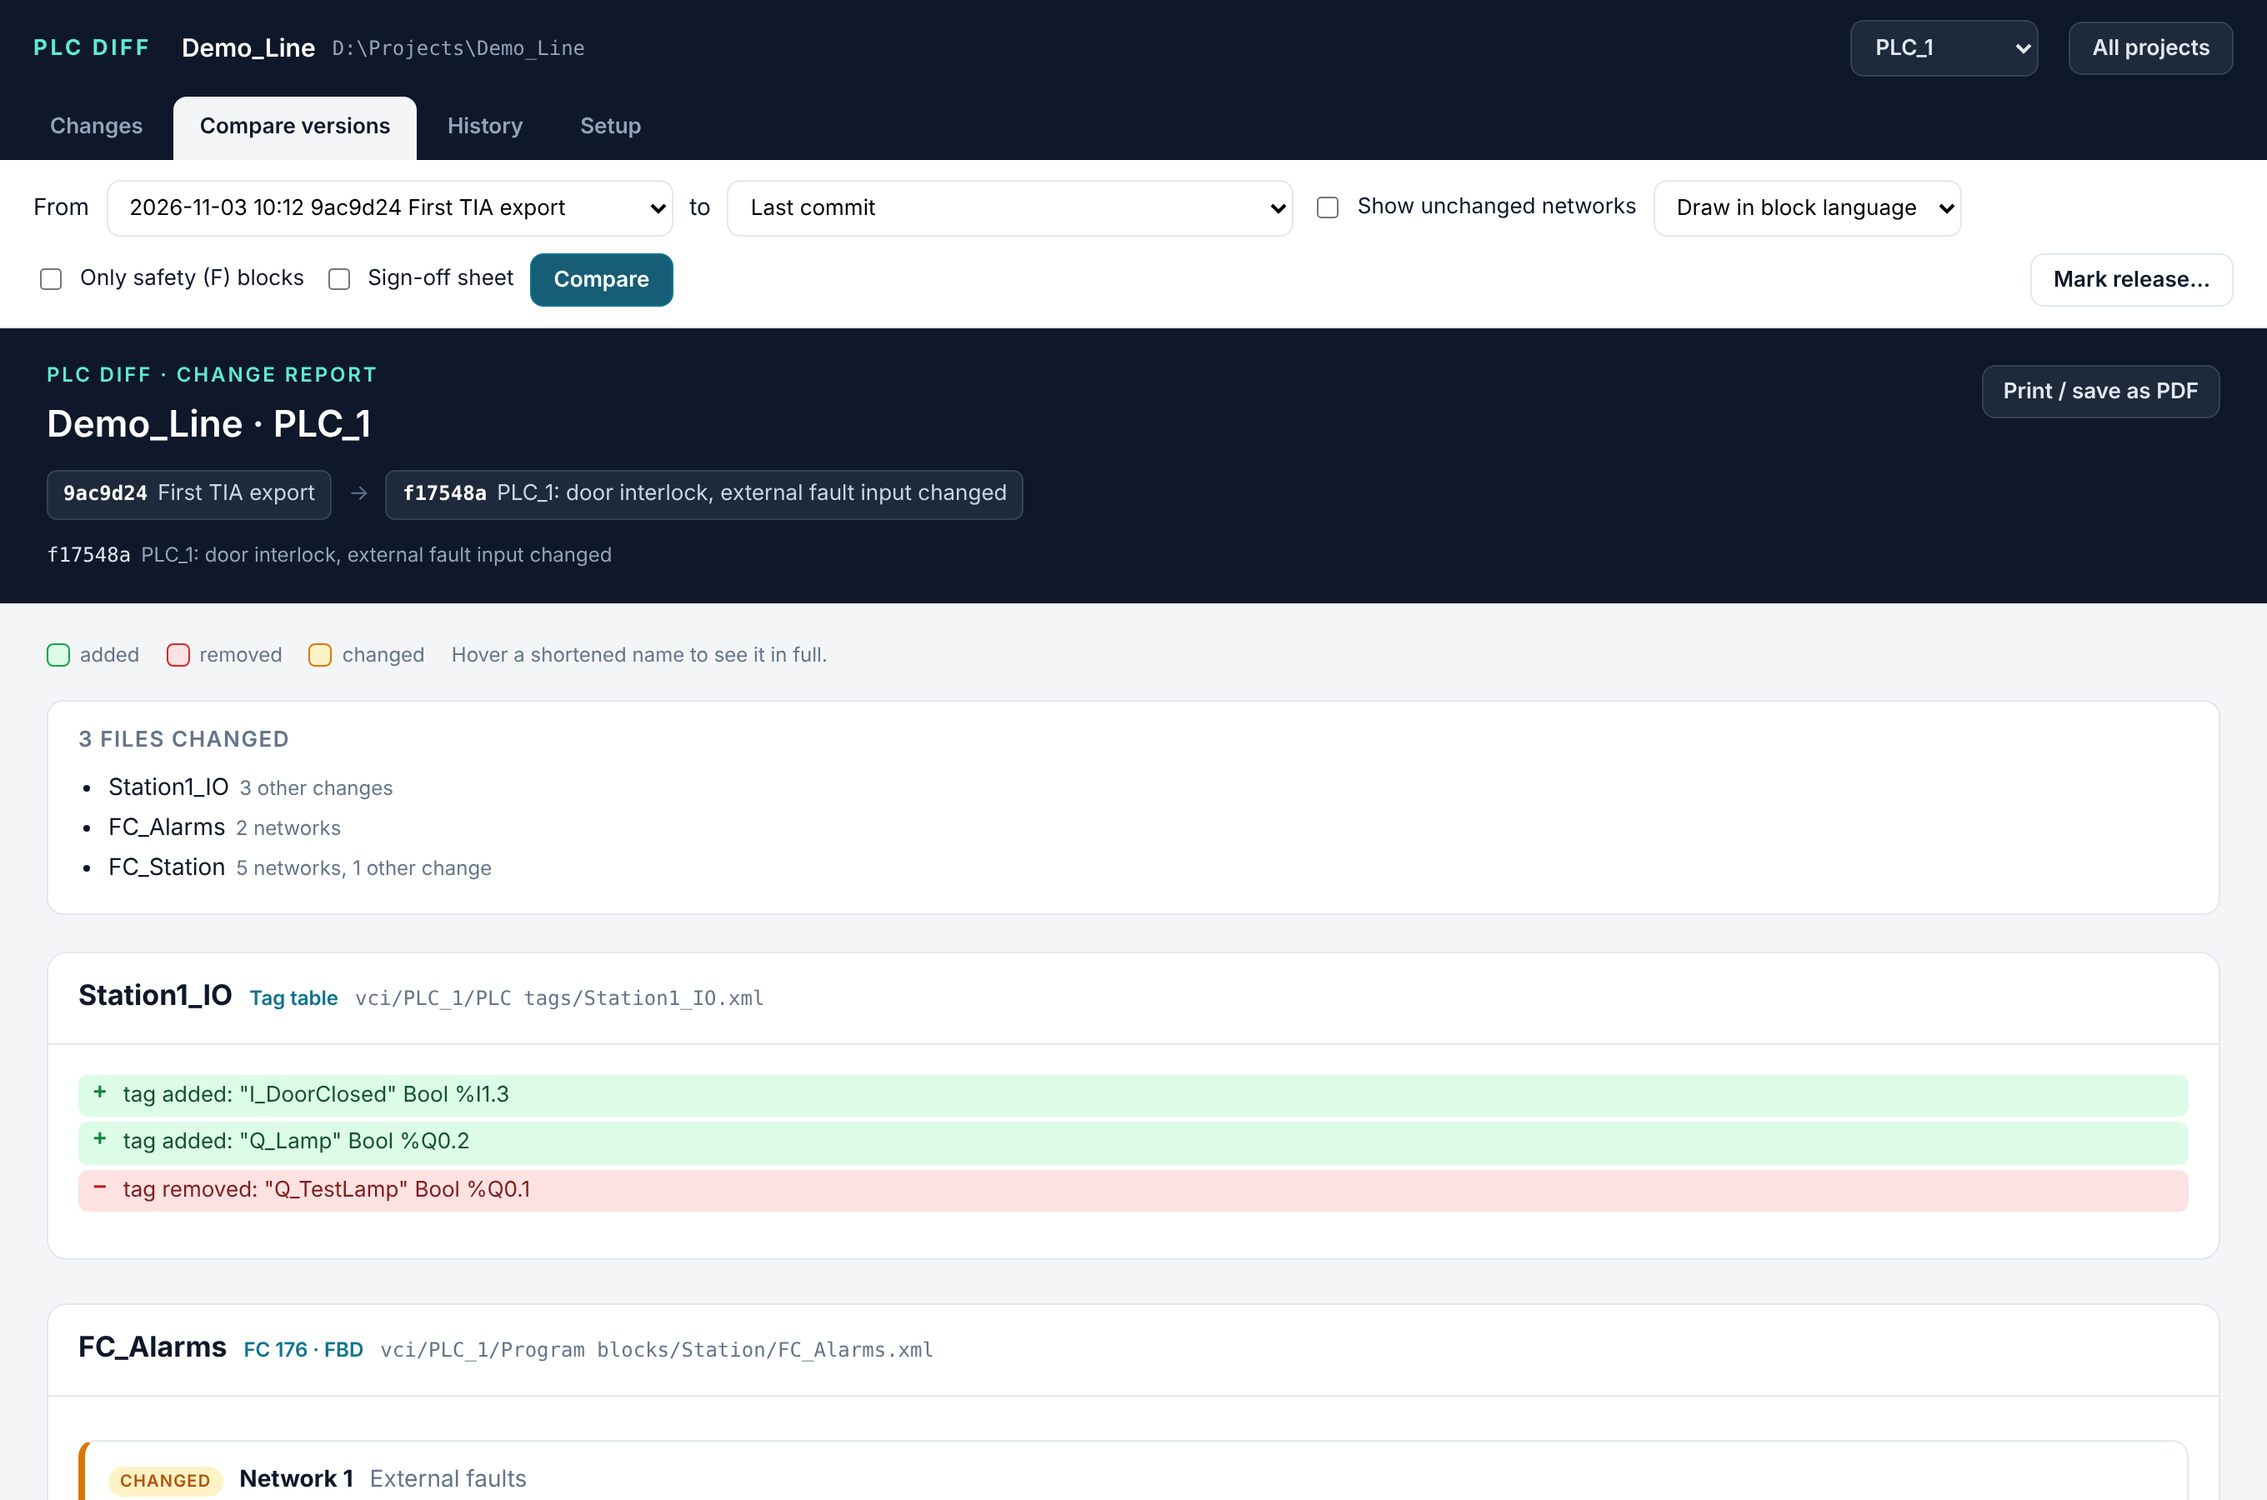
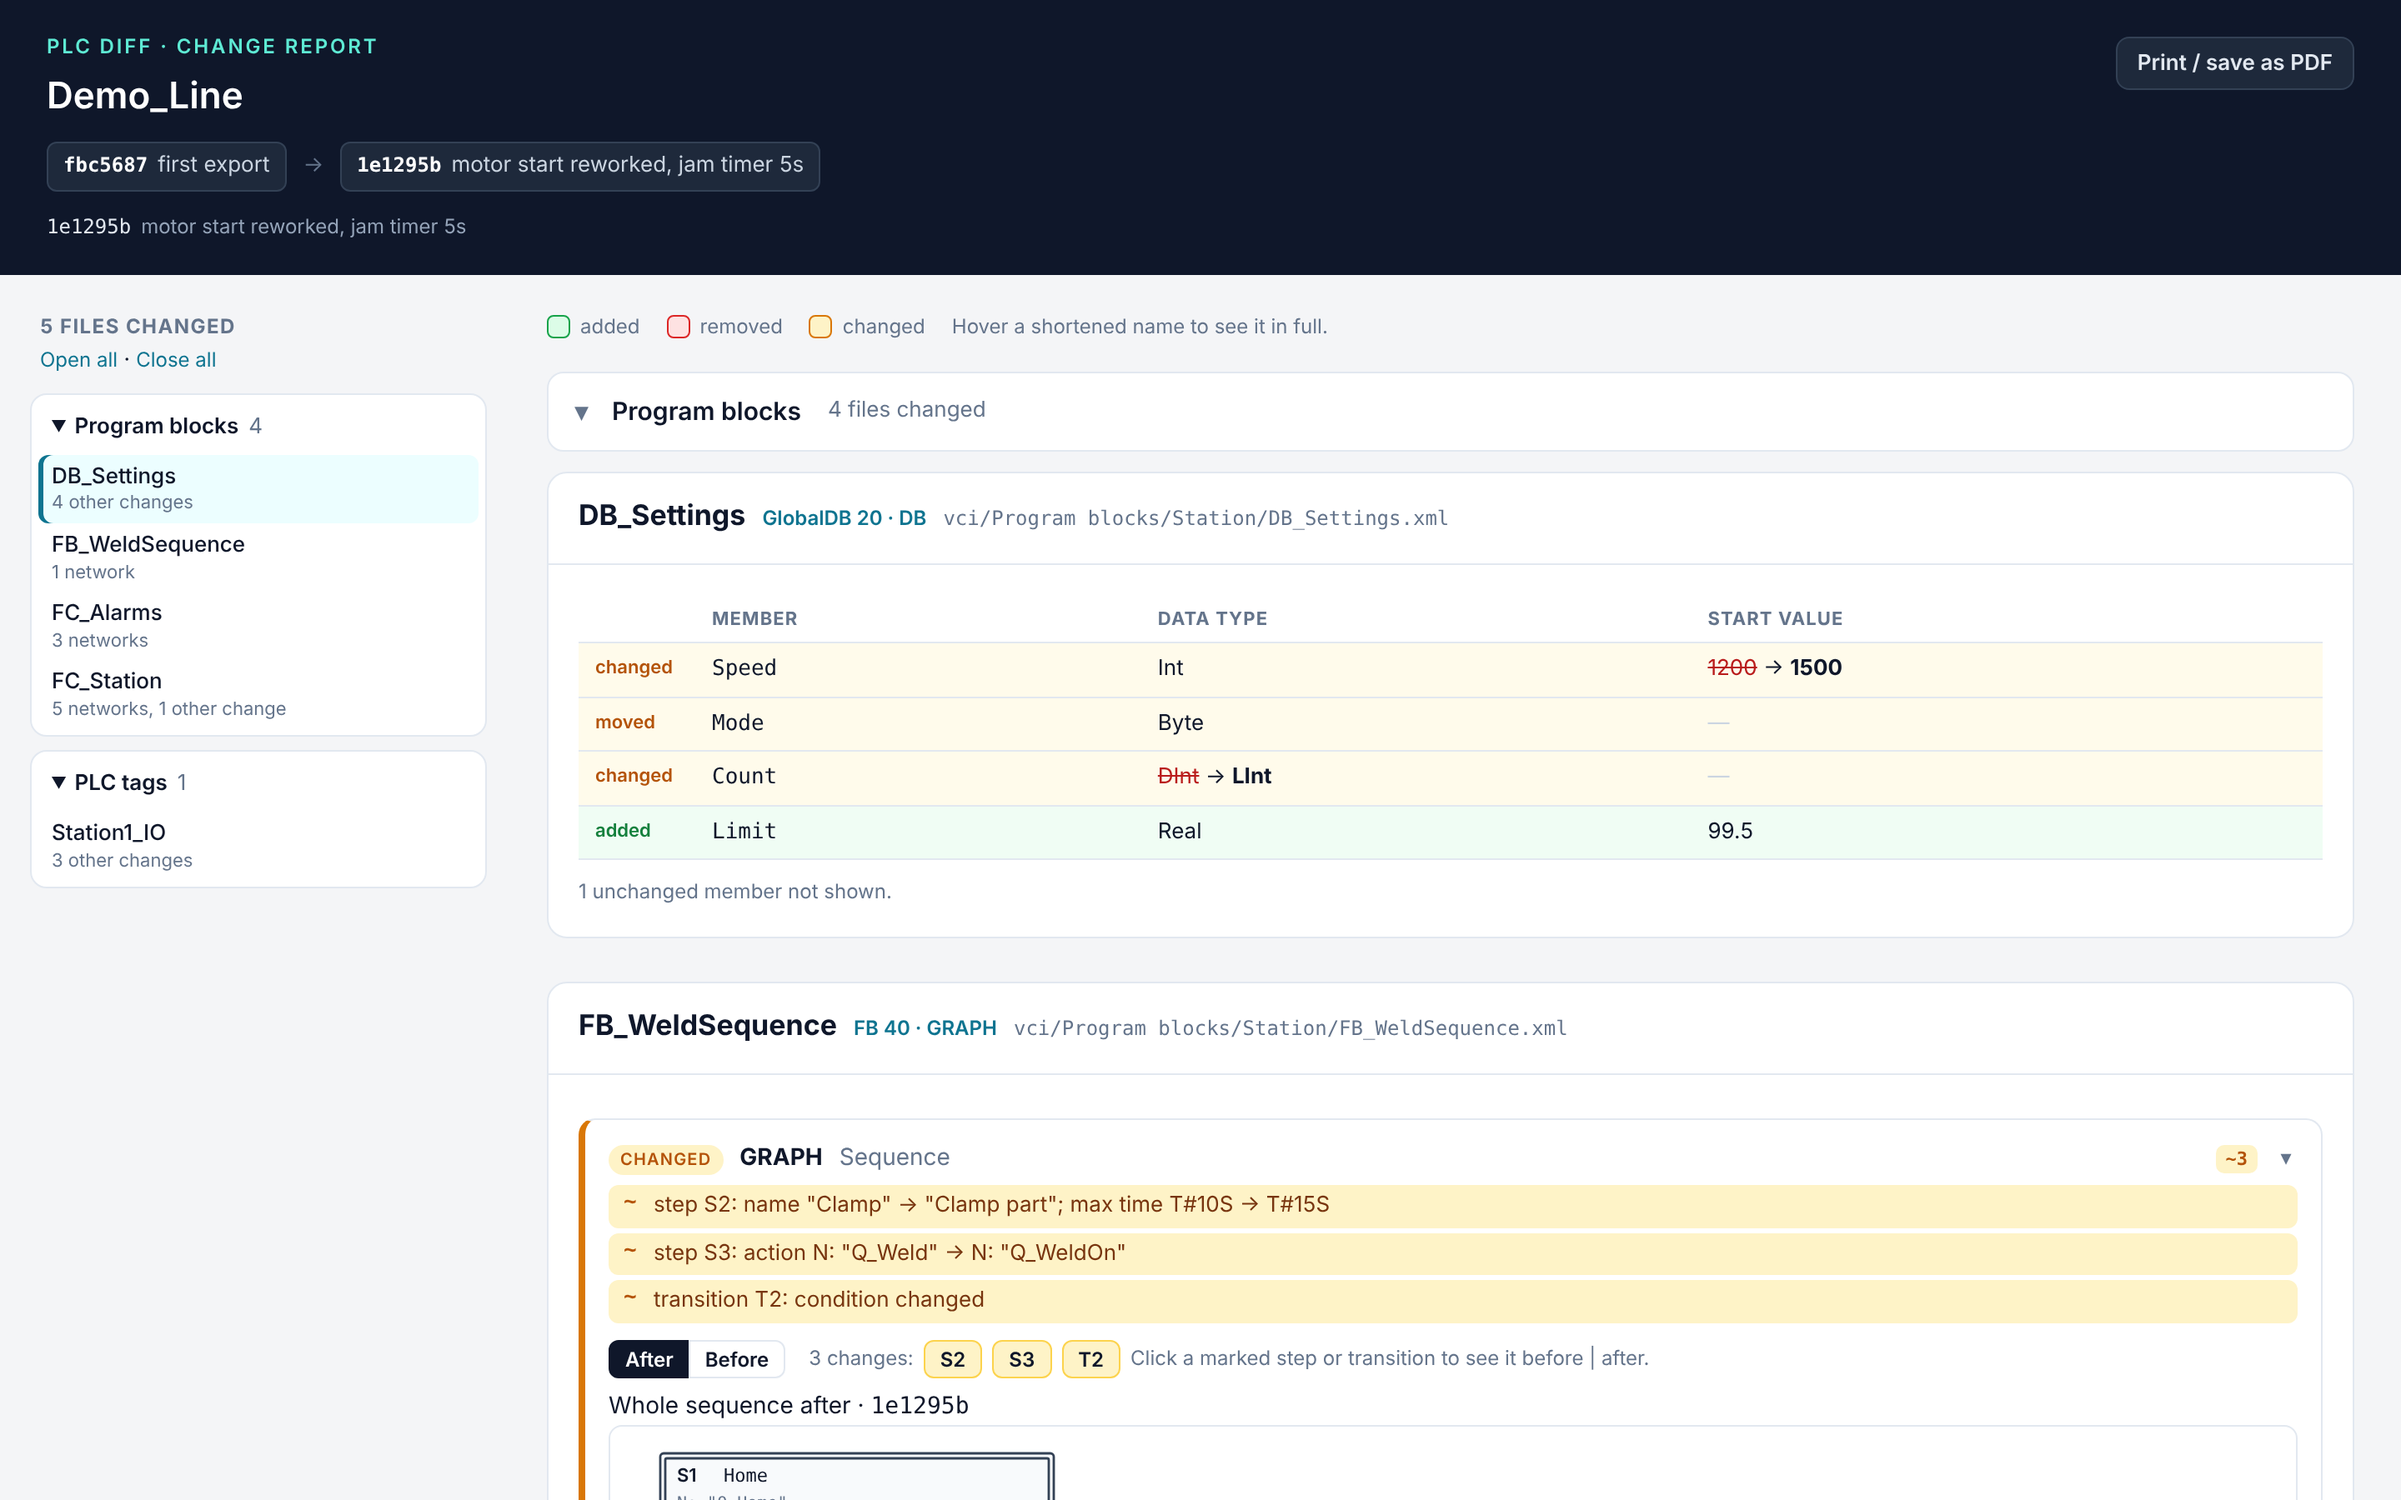
README for 1.4.0: new screenshots (side by side, S7-GRAPH), features grouped
- Screenshots made from the test samples (no project data): compare page with
  the sidebar, LAD and FBD before | after, S7-GRAPH whole sequence and one change.
- 'What it does' grouped: compare, look up, team, safety/releases.
- Install from the release zip; updating from 1.4.0 on.
- CLAUDE.md: drop the 'data blocks not a nice table' limit (done in 1.4.0).

Claude-Session: https://claude.ai/code/session_01Peh7jRW1jgXPnjxDCtpcNt

diff --git a/README.md b/README.md
@@ -2,52 +2,68 @@
 
 **See what changed in your Siemens TIA Portal PLC program — drawn as ladder, FBD and S7-GRAPH, not as XML.**
 
-PLC Diff compares two versions of a TIA Portal V20 program and shows every changed network as a picture, with
-added parts in green, removed in red and changed in yellow. Versions come from Git: TIA Portal's
-*Version Control Interface* exports your blocks as files into a Git repository, and PLC Diff reads them.
+PLC Diff compares two versions of a TIA Portal V20 program and shows every changed network as a picture, before
+and after side by side, with added parts in green, removed in red and changed in yellow. Versions come from Git:
+TIA Portal's *Version Control Interface* exports your blocks as files into a Git repository, and PLC Diff reads them.
 
 It runs on your own PC, opens in your browser, and needs nothing but Python and Git. Your code never leaves your PC
 (GitHub is optional — a shared network folder works too).
 
-![Compare two versions](docs/images/compare.png)
+![Compare page: changed files on the left, grouped like TIA's project tree](docs/images/compare.png)
 
-| Ladder (LAD) | Function block diagram (FBD) |
+| Ladder (LAD), before and after | Function block diagram (FBD), before and after |
 | --- | --- |
 | ![LAD network](docs/images/ladder.png) | ![FBD network](docs/images/fbd.png) |
 
+| S7-GRAPH: the whole sequence first… | …click a change to see it before and after |
+| --- | --- |
+| ![S7-GRAPH whole sequence](docs/images/graph.png) | ![One S7-GRAPH change opened](docs/images/graph-change.png) |
+
 ## What it does
 
-- **Compare versions** — any two commits, or your unsaved export against the last commit. LAD drawn as ladder,
-  FBD as FBD, S7-GRAPH as a step chain (steps, transitions, branches, jumps, supervisions, interlocks),
-  SCL/STL as a text diff. Data blocks and UDTs as a before/after table (data type, start value, moved members).
-  Changed files are grouped like TIA's project tree (Program blocks, PLC tags, PLC data types, …), each group opens
-  and closes, and a sidebar lists them so you can jump to any file. Big drawings (wide networks, long S7-GRAPH
-  chains) start zoomed out with the changes highlighted; click a change to zoom in there.
-  Changed LAD/FBD networks are drawn before | after side by side; a changed S7-GRAPH sequence shows the whole
-  sequence first - click a change to see that step or transition before | after.
-  A block with many changed networks gets a toolbar: go to a network, show only one kind of change, find a
-  tag, fold networks away (click a network's title line to fold just that one).
-  A block TIA only renumbered after a compile says "no logic change".
+### Compare versions
+
+- **Any two versions** — two commits, or your fresh export against the last commit.
+- **Drawn like in TIA** — LAD as ladder, FBD as FBD, SCL/STL as a text diff. Before and after are side by side;
+  tag names are always shown in full.
+- **S7-GRAPH sequences** — steps, transitions, branches, jumps, supervisions and interlocks. You first see the whole
+  sequence with the changes marked; click a step or transition to see that change before and after, with its
+  condition drawn as FBD and where it sits in the chain.
+- **Data blocks and data types** — a before/after table: data type, start value, added, removed and moved members.
+- **Easy to find your way** — changed files are grouped like TIA's project tree (Program blocks, PLC tags, PLC data
+  types…) and listed in a sidebar. Big drawings start zoomed out with the changes highlighted; click a change to
+  zoom in there. A block with many changed networks gets a toolbar: go to a network, show only one kind of change,
+  find a tag, fold networks away.
+- **No false alarms** — a block TIA only renumbered after a compile says "no logic change".
 - **Compare two folders** — no Git needed: e.g. the customer's export against yours, or a backup from site.
-- **Change history** — every change with date, time and author, searchable, with charts, and a download for Excel.
-- **Commit and share** — one button to save ("commit") and send ("push") your changes, with a suggested message
-  that lists what changed. Pull, conflicts (keep mine / use theirs) are handled for you.
-- **Several PLCs, several people** — one folder per PLC in one project; each person commits only their own PLC.
-- **Several projects** — a home screen with all your projects and their status.
-- **Safety** — F-blocks (F_LAD / F_FBD / F_DB) are marked, need an extra confirmation before committing, and can be
-  reported on their own with a sign-off sheet.
-- **Blocks tab** — every block of any version, grouped like TIA's project tree. Click one to see it drawn (LAD, FBD,
-  S7-GRAPH chain), even if it never changed; **History** lists every commit that changed it, with what changed.
+
+### Look up and look back
+
+- **Blocks tab** — every block of any version, grouped like TIA's project tree. Click one to see it drawn, even if it
+  never changed; **History** lists every commit that changed it, with what changed.
 - **Where is this tag used?** — type a tag in the Blocks tab: every network, data block and tag table that uses it,
   drawn, with the tag highlighted.
-- **Review sign-off** — mark a commit as reviewed (with a remark); it is shared with the team through Git and shows
-  in the history, the compare page and the printed sign-off sheet.
+- **Change history** — every change with date, time and author, searchable, with charts, and a download for Excel.
 - **Get an old version back** — put any earlier version of a single block into the TIA workspace folder, ready for
-  *Import from workspace* in TIA. Setup → **Get an old version of a block back**.
-- **Releases and reports** — mark a version as a release (e.g. FAT, SAT), attach the archive, print any comparison
-  or save it as PDF.
-- **Updates** — PLC Diff tells you when a new version is on GitHub and updates itself with one click (Setup → Updates
-  to turn this off).
+  *Import from workspace* in TIA (Setup → **Get an old version of a block back**).
+
+### Work as a team
+
+- **Commit and share** — one button to save ("commit") and send ("push") your changes, with a suggested message
+  that lists what changed. Pull and conflicts (keep mine / use theirs) are handled for you.
+- **Several PLCs, several people** — one folder per PLC in one project; each person commits only their own PLC.
+- **Several projects** — a home screen with all your projects and their status.
+- **Review sign-off** — mark a commit as reviewed, with a remark. It is shared with the team through Git and shows in
+  the history, on the compare page and on the printed sign-off sheet.
+
+### Safety, releases and reports
+
+- **Safety** — F-blocks (F_LAD / F_FBD / F_DB) are marked, need an extra confirmation before committing, and can be
+  reported on their own with a sign-off sheet.
+- **Releases** — mark a version as a release (e.g. FAT, SAT) and attach the archive.
+- **Reports** — print any comparison or save it as PDF.
+- **Updates** — PLC Diff tells you when a new version is on GitHub and updates itself with one click
+  (Setup → Updates to turn this off).
 
 ![Change history](docs/images/history.png)
 
@@ -55,10 +71,14 @@ It runs on your own PC, opens in your browser, and needs nothing but Python and 
 
 1. Install **Git for Windows** — https://git-scm.com (default options are fine).
 2. Install **Python 3.8 or newer** — https://python.org (tick *Add python.exe to PATH*).
-3. Download `PLCDiff.pyw` and `Start PLC Diff.bat` into one folder, e.g. `D:\Tools\PLCDiff`.
+3. Download the zip from the [latest release](https://github.com/sandro91145/plc-diff/releases/latest) and unzip
+   it into a folder, e.g. `D:\Tools\PLCDiff` (or download `PLCDiff.pyw` and `Start PLC Diff.bat` into one folder).
 4. Double-click **Start PLC Diff.bat**. The app opens in your browser.
 
 No extra Python packages are needed. If the app can't find Git, paste the path to `git.exe` in **Setup**.
+
+**Updating:** from version 1.4.0 on, PLC Diff offers new versions itself (**Update now**; your old file is kept as
+`PLCDiff.pyw.bak`). Older versions: replace `PLCDiff.pyw` with the new one.
 
 ## Connect TIA Portal
 
@@ -87,7 +107,9 @@ python PLCDiff.pyw --help
 ## For developers
 
 Everything is in one file, `PLCDiff.pyw` (Python standard library only). `tests/make_samples.py` creates
-realistic test exports. `CLAUDE.md` explains the structure, the TIA export formats and the design decisions.
+realistic test exports (LAD, FBD, S7-GRAPH, a data block, a tag table) and `python tests/smoke.py` checks the whole
+app with them in about 30 seconds. `CLAUDE.md` explains the structure, the TIA export formats and the design
+decisions.
 
 ## License
 

diff --git a/CLAUDE.md b/CLAUDE.md
@@ -167,7 +167,6 @@ compare to some files (a block's history).
 ## 9. Known limits / ideas not done yet
 
 - Not read/drawn: hardware configuration, HMI, technology objects as diagrams (shown as text/“not understood”).
-- Data blocks: start-value changes are listed but not as a nice table.
 - Possible next: hardware configuration and HMI; a network install for teams without GitHub access.
 - Done in 1.4.0: Blocks tab (view, per-block history), where is this tag used, update from GitHub, DB/UDT table,
   compare two folders, review sign-off, member/network order changes.
